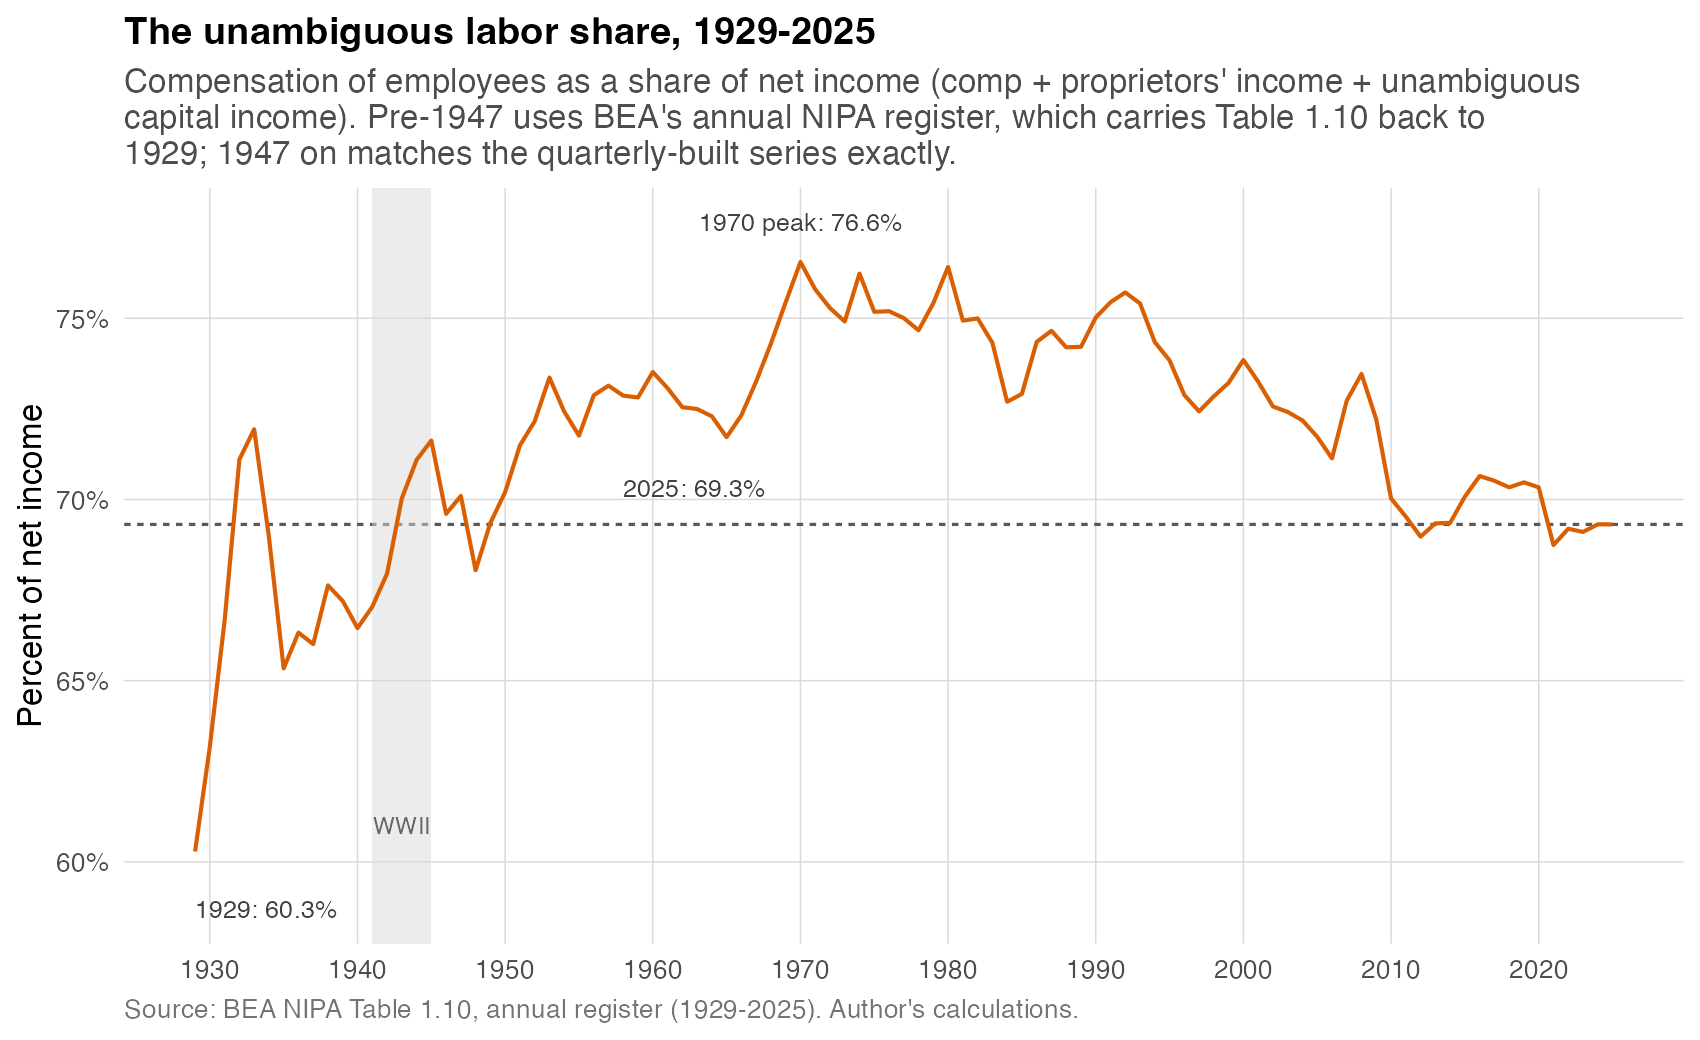
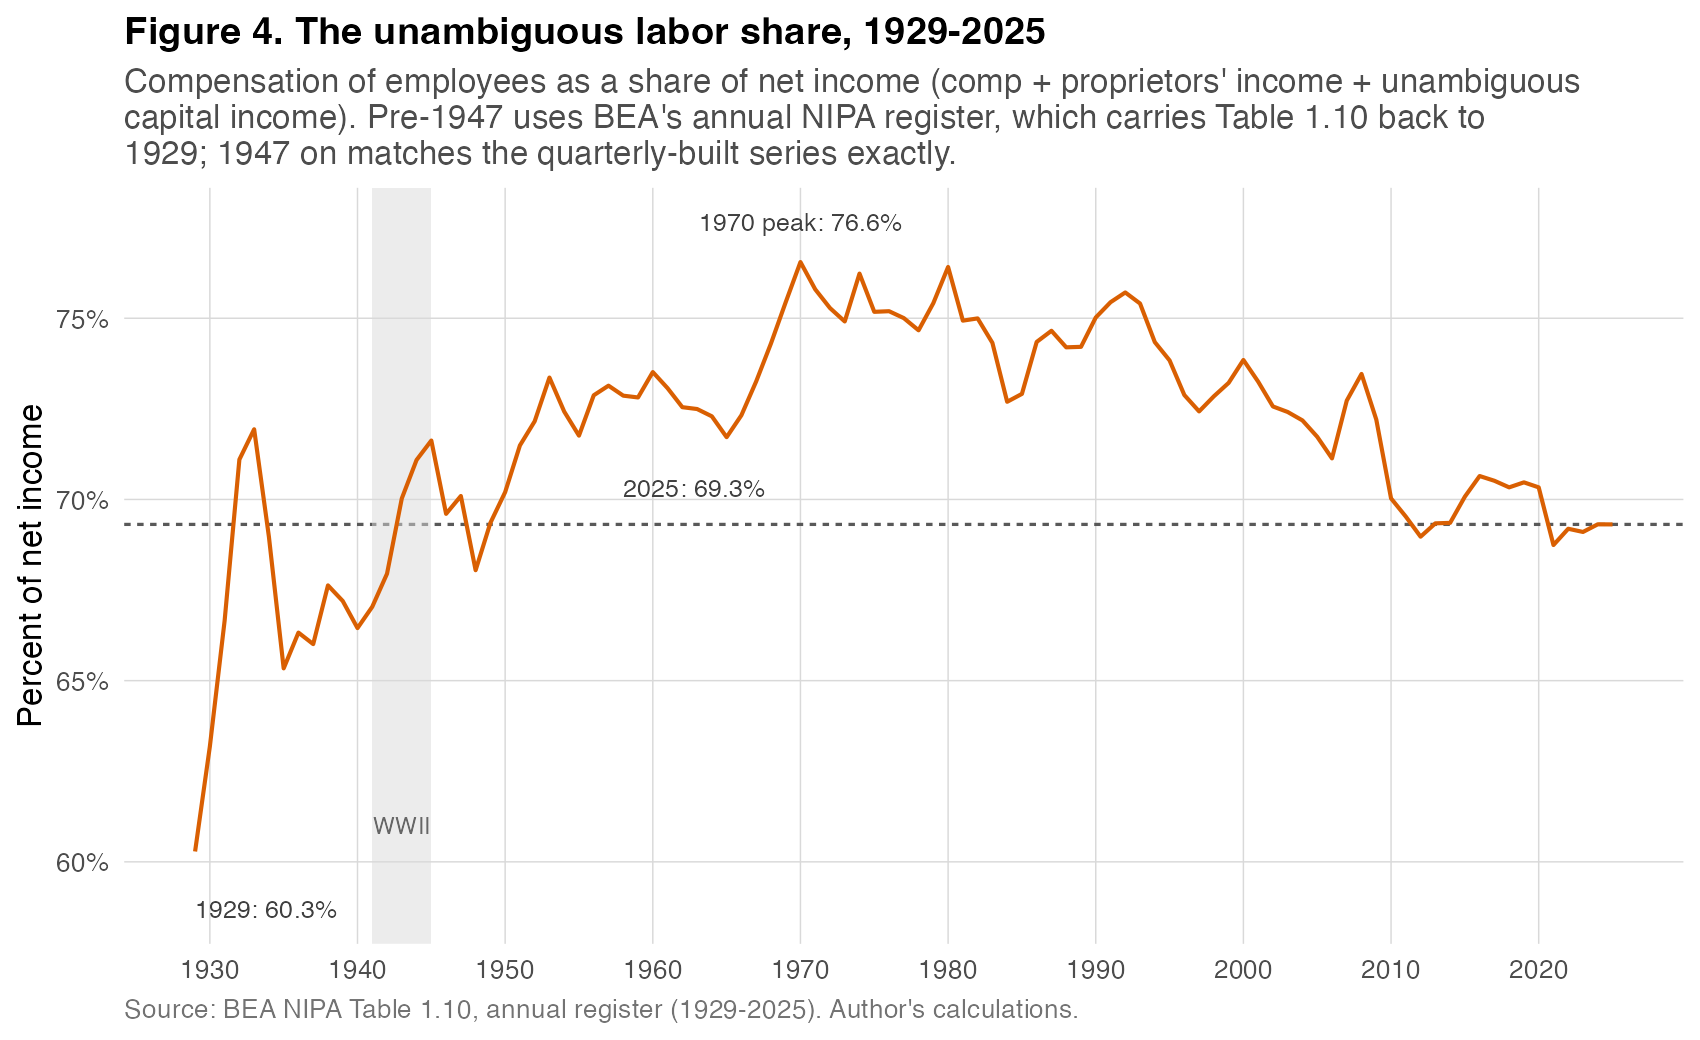
Remove production taxes

Changed region(s): [[0.0624, 0.0, 0.6235, 0.0615]]

diff --git a/labor_share_pushback.md b/labor_share_pushback.md
@@ -5,7 +5,7 @@
 There’s no one correct measure of the labor share. There are a lot of ways to consider what should go in the numerator and the denominator. But no matter how you approach it, I think three things are generally agreed upon for the United States:
 
 1. After being in a steady range from the 1960s to 1990s, it has fallen notably since 2000.
-2. It fell again during the pandemic and reopening, and after stabilizing, appears to be falling again since early 2025. While there are many explanations for the fall in the 2000s there are fewer ones for the more recent fall.
+2. It fell again during the pandemic and reopening, and after stabilizing, appears to be falling again since early 2025. While there are many explanations for the fall in the 2000s, there are fewer ones for the more recent fall.
 3. This is true if you include depreciation; depending on what you are measuring, gross measures tend to be lowest on record and net measures among the lowest on record, but even then the recent falls since 2025 may make them the lowest.
 
 Throw whatever you want at it, this is generally true. This has gotten more attention lately, especially [with recent BLS gross measures](https://x.com/mtkonczal/status/2095490789086290430).
@@ -20,36 +20,36 @@ Where to start? I think five things.
 
 **First**, their data concedes my first two points above. Here’s their “unambiguous labor share” in Figure 1:
 
-![The Tax Foundation's own "unambiguous" labor share, every quarter since 1947](output/figures/f10_tf_share_quarterly.png)
+![Figure 1. The Tax Foundation's own "unambiguous" labor share, every quarter since 1947](output/figures/f10_tf_share_quarterly.png)
 
 After being stable in the 1950s through 1990s, it fell, and fell again over the past six years. So we’re in agreement there. Should we call it a day? Well we’re already here. The open question is number 3 above, what to make of the idea about this “round trip.” So let’s keep going.
 
-**Second**, if you include proprietary income as labor income for their measure, then it becomes the lowest on record. Let’s stick with their measure, and add in some proprietary income as labor income. Their post is in a bind, because it wants to argue, following the latest evidence, that we should think of prop income as being mostly labor income, on the order of three-quarters ([Smith et al 2019](https://www.nber.org/papers/w25442)), to try and talk up the idea that there’s a lot of mismeasured and hidden labor income out there. Fair enough. But if you do that, given the higher share of prop income in the 1940s, it raises the labor share then. Here is their measure with 0%, 50%, and 100% of prop income as labor income:
+**Second**, if you include proprietary income as labor income for their measure, then it becomes the lowest on record. Let’s stick with their measure, and add in some proprietary income as labor income. Their post is in a bind, because it wants to argue, following the latest evidence, that we should think of prop income as being mostly labor income, on the order of three-quarters ([Smith et al 2019](https://www.nber.org/papers/w25442)), to try and talk up the idea that there’s a lot of mismeasured and hidden labor income out there. Fair enough. But if you do that, given the higher share of prop income in the 1940s, it raises the labor share then. Here is their measure with 0%, 50%, and 100% of prop income as labor income (Figure 2):
 
-![Their measure with 0%, 50%, and 100% of proprietors' income counted as labor](output/figures/f11_proprietor_0_50_100_quarterly.png)
+![Figure 2. Their measure with 0%, 50%, and 100% of proprietors' income counted as labor](output/figures/f11_proprietor_0_50_100_quarterly.png)
 
 Adding any prop income to labor share raises the level of income today but it also raises it even more in the 1940s, since prop income was a much bigger share of the economy then. At 50% or at 100% to labor, the current quarter isn’t just low, it’s the single lowest reading in the entire 1947-2026 series.
 
-**Third**, As you can see from Figure 1, their idea of a "round trip" is really dependent on a handful of data points in the late 1940s when the quarterly data starts. But that’s a brief window. Sticking with their unambiguous labor share measure, the average in the 21st century (2000Q1-2026Q2) is 70.8%, which is below the 73.9% average from 1950-1999. While the average is 69.2% in 1947-1949, by 1950 to 1952 it’s 71.3% and it increases fast from there.
+**Third**, as you can see from Figure 1, their idea of a “round trip” is really dependent on a handful of data points in the late 1940s when the quarterly data starts. But that’s a brief window. Sticking with their unambiguous labor share measure, the average in the 21st century (2000Q1-2026Q2) is 70.8%, which is below the 73.9% average from 1950-1999. While the average is 69.2% in 1947-1949, by 1950 to 1952 it’s 71.3% and it increases fast from there.
 
-Their round trip language invokes a staple of the labor share literature debates of the 2010s, which is that net share is back to earlier historical ranges. As [Grossman and Oberfield (2022)](https://www.nber.org/papers/w29165) put it: "The gross labor share was relatively stable through 2000, but then declined to a level below its historical range. In contrast, as noted by Bridgman (2018) and Rognlie (2015), the net labor share had been rising between 1940 and 1980, so the recently lower level is not without precedent."
+Their round trip language invokes a staple of the labor share literature debates of the 2010s, which is that net share is back to earlier historical ranges. As [Grossman and Oberfield (2022)](https://www.nber.org/papers/w29165) put it: “The gross labor share was relatively stable through 2000, but then declined to a level below its historical range. In contrast, as noted by Bridgman (2018) and Rognlie (2015), the net labor share had been rising between 1940 and 1980, so the recently lower level is not without precedent.”
 
-That was definitely true in 2015 and 2018. But is that true now? I want to use a labor share more consistent with the literature than what the Tax Foundation does.[Footnote: A funny thing about their definition is that the non-profit sector, because it TKTKTKAITK, I believe treats it as having a 100% labor share. Truly, us non-profit workers are the vanguard of the working class!] Here are the two measures I watch most closely: the net labor share of the nonfinancial corporate sector AI FIX THIS IN THE DATA TKTKTK (so there’s no prop income to worry about), and the whole economy’s AIISTHISCORPORATE? net income with 50% of proprietors’ income counted as labor:
+That was definitely true in 2015 and 2018. But is that true now? I want to use a labor share more consistent with the literature than what the Tax Foundation does.[Footnote: A funny thing about their definition is that the non-profit sector, because it generates no corporate profits, rental income, or proprietors’ income in the NIPAs, gets treated as having a 100% labor share. Truly, us non-profit workers are the vanguard of the working class!] Here are the two measures I watch most closely: the net labor share of the nonfinancial corporate sector (so there’s no prop income to worry about), net of depreciation only, and the whole economy’s net income with 50% of proprietors’ income counted as labor (Figure 3):
 
-![The net nonfinancial corporate labor share and the total economy with 50% of proprietors' income to labor, both against their own 1947-49 average](output/figures/f12_not_without_precedent_quarterly.png)
+![Figure 3. The net nonfinancial corporate labor share and the total economy with 50% of proprietors' income to labor, both against their own 1947-49 average](output/figures/f12_not_without_precedent_quarterly.png)
 
 As you can see here, during the 2010s, this hung out in roughly the 1940s level. So a round trip? But since COVID this has collapsed further, and fallen even more since Trump took office at the beginning of 2025. Something is different.
 
-**Fourth**, they imply that the labor share was stable at a “starting level” before this higher midcentury range. Since they use quarterly data they can only go to 1948 in the NIPAs. But the real heads know if you really dig deep into those NIPA flatfiles, which you can conveniently do with [tidyusmacro::getNIPAFiles()](https://github.com/mtkonczal/tidyusmacro/blob/main/R/getNIPAFiles.R) function from my R library, you can get annual data from 1929 onward.
+**Fourth**, they imply that the labor share was stable at a “starting level” before this higher midcentury range. Since they use quarterly data they can only go to 1948 in the NIPAs. But the real heads know if you really dig deep into those NIPA flatfiles, which you can conveniently do with the [tidyusmacro::getNIPAFiles()](https://github.com/mtkonczal/tidyusmacro/blob/main/R/getNIPAFiles.R) function from my R library, you can get annual data from 1929 onward.
 
-As you’ll see below, it’s very unstable during this period. Here’s their measure dating back to 1929:
+As you’ll see below, it’s very unstable during this period. Here’s their measure dating back to 1929 (Figure 4):
 
-![The unambiguous labor share, 1929-2025](output/figures/f08_annual_history_1929.png)
+![Figure 4. The unambiguous labor share, 1929-2025](output/figures/f08_annual_history_1929.png)
 
 It itself is making many round trips! The topsy-turvy nature of this is why Robert Solow argued, using this data from 1929 to 1954, that he was “skeptical” about any consistency in the labor share that many assumed ([Solow 1958](https://www.jstor.org/stable/1808271)). So I’m not convinced that there’s a “starting level” at all.
 
-Fifth, building on that, labor share actually mirrors 1% inequality this way. Using the annual data again, take the capital share of net income and put it up against Piketty and Saez’s top 1% share (from the [World Inequality Database](https://wid.world/country/usa/) through 2024), and take a look (Figure TK):
+**Fifth**, building on that, labor share actually mirrors 1% inequality this way. Using the annual data again, take the capital share of net income and put it up against Piketty and Saez’s top 1% share (from the [World Inequality Database](https://wid.world/country/usa/) through 2024), and take a look (Figure 5):
 
-![The capital share and top-1% income concentration move together](output/figures/f09_top1_vs_capital.png)
+![Figure 5. The capital share and top-1% income concentration move together](output/figures/f09_top1_vs_capital.png)
 
 It’s the same story? Different decades along the way, but it certainly comes back over the full 1929-2024 overlap. I think we have a story that 1% inequality has largely been a choice we’ve made, though obviously many people argue it’s strictly a matter of supply and demand. We certainly don’t, in the back of our heads, think that the 1% share is fixed deep in the economy. Perhaps it’s time we think the same thing with the capital share.
